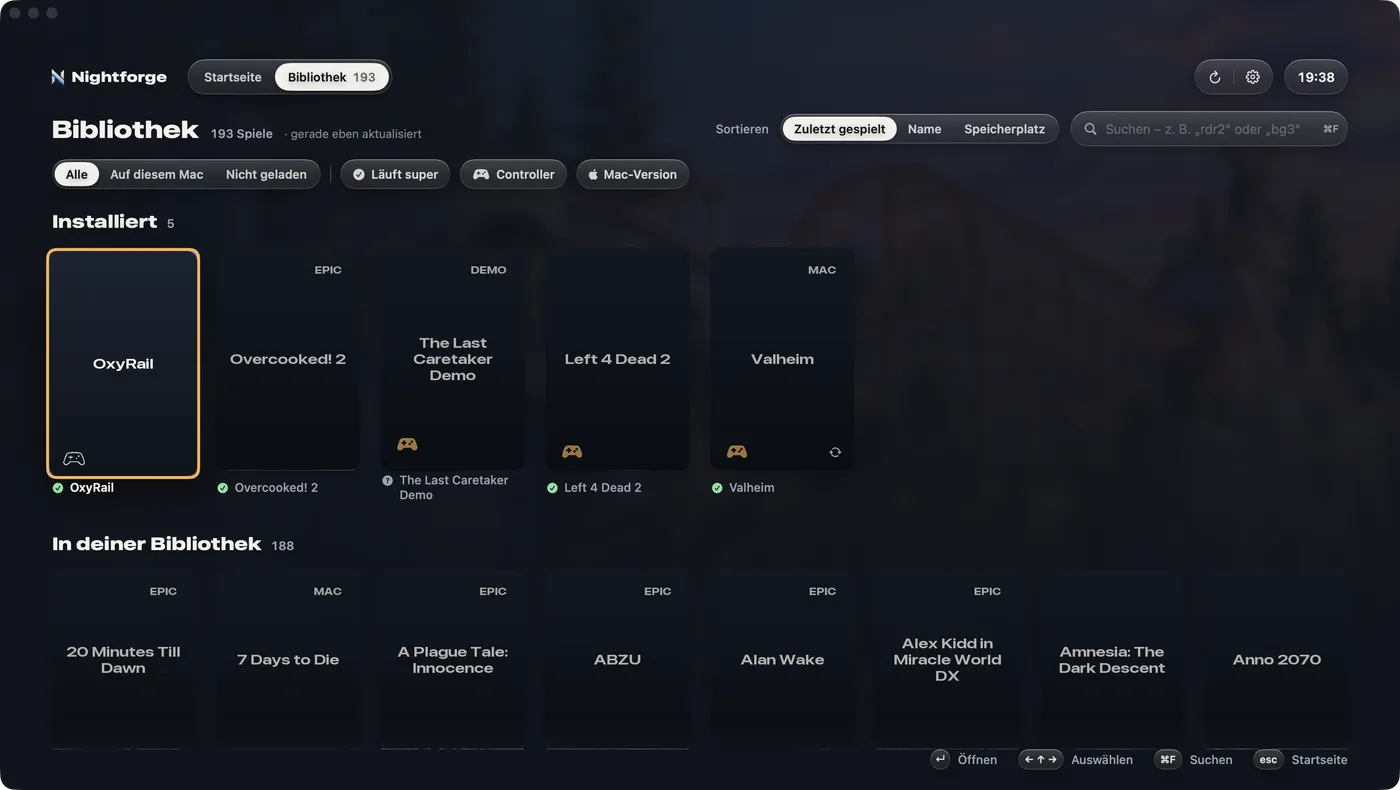
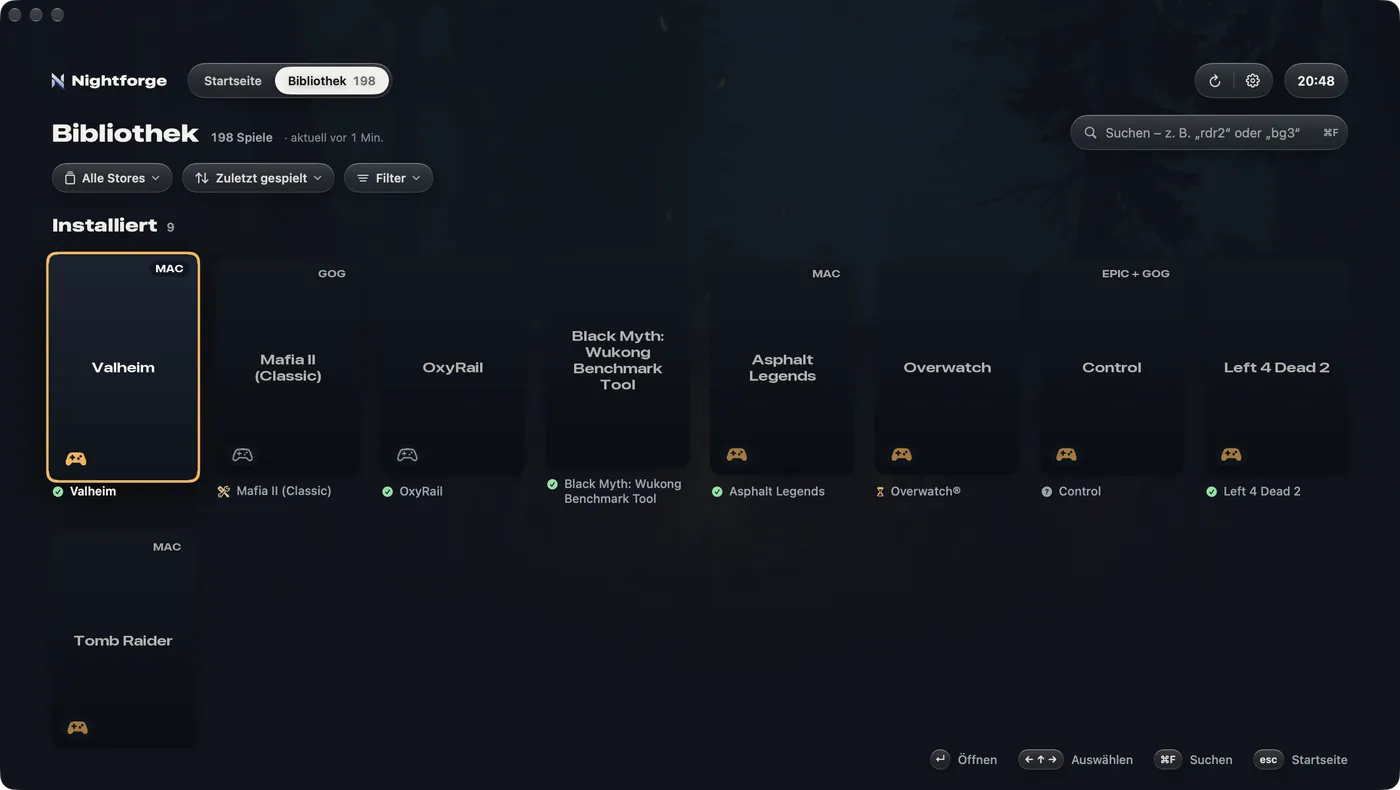
Landing page: pictures from 0.3.0 – the library with GOG, a game's info, the controller settings
Captured from the released 0.3.0 (German UI), game artwork replaced with Nightforge's own plain look:
- Library: the installed games with MAC, GOG and EPIC + GOG tags, controller badges redrawn,
  covers as plain surfaces with the game's name.
- Mafia II's page scrolled to "About the game": the game's pictures as plain tiles, description,
  At a glance and How it plays; the backdrop is the plain gradient, the small logo its name.
- Settings › Controller beside the controller menu panel: the L3 + R3 combination and every button.

The English page shows the German captures of the two new pictures until English ones exist
(one <img> without lang then); its library stays the earlier English capture.

diff --git a/site/index.html b/site/index.html
@@ -206,7 +206,7 @@
     <h2 class="h2"><span lang="de">Deine ganze Bibliothek. <span class="dim">Mac-Versionen zuerst.</span></span><span lang="en">Your whole library. <span class="dim">Mac versions first.</span></span></h2>
   </div>
   <figure class="wrap shot-xl reveal">
-    <img lang="de" class="screen" src="img/shots/library-de-800.webp" srcset="img/shots/library-de-800.webp 800w, img/shots/library-de-1400.webp 1400w" sizes="(min-width: 1180px) 1080px, calc(100vw - 40px)" width="3024" height="1706" loading="lazy" decoding="async" alt="Die Bibliothek mit Filtern und Covern, an denen MAC- und EPIC-Schilder hängen">
+    <img lang="de" class="screen" src="img/shots/library-de-800.webp" srcset="img/shots/library-de-800.webp 800w, img/shots/library-de-1400.webp 1400w" sizes="(min-width: 1180px) 1080px, calc(100vw - 40px)" width="3024" height="1706" loading="lazy" decoding="async" alt="Die Bibliothek mit den installierten Spielen: Schilder für MAC, GOG und EPIC + GOG, Controller-Abzeichen und unter jedem Cover, wie das Spiel läuft">
     <img lang="en" class="screen" src="img/shots/library-en-800.webp" srcset="img/shots/library-en-800.webp 800w, img/shots/library-en-1400.webp 1400w" sizes="(min-width: 1180px) 1080px, calc(100vw - 40px)" width="3024" height="1706" loading="lazy" decoding="async" alt="The library with filters and covers carrying MAC and EPIC tags">
   </figure>
   <div class="wrap cols reveal">
@@ -293,12 +293,16 @@
         <p class="panel-kicker"><span lang="de">Gibt es so nur in Nightforge</span><span lang="en">Only in Nightforge, this way</span></p>
         <h3 class="feature-title"><span lang="de">Nightforges eigenes Controller-Menü.</span><span lang="en">Nightforge’s own controller menu.</span></h3>
         <p class="feature-text"><span lang="de">Beide Sticks drücken (L3&nbsp;+&nbsp;R3) und zwei Sekunden halten – schon kommt mitten im Spiel ein ruhiges Menü nach vorn. Auf dem Sofa bleibt man so nie hängen: Ein eingefrorenes Spiel beendest du mit dem Controller, ohne aufzustehen – und bist gleich wieder in deiner Bibliothek.</span><span lang="en">Press both sticks (L3&nbsp;+&nbsp;R3) and hold them for two seconds – and a calm menu comes up in the middle of a game. So on the couch you never get stuck: you quit a frozen game with the controller, without getting up – and you’re straight back in your library.</span></p>
+        <ul class="feature-list">
+          <li><svg class="i" aria-hidden="true"><use href="#i-play"/></svg><span lang="de">Weiterspielen</span><span lang="en">Keep playing</span></li>
+          <li><svg class="i" aria-hidden="true"><use href="#i-x"/></svg><span lang="de">Spiel beenden – auch wenn es hängt</span><span lang="en">Quit the game – even when it hangs</span></li>
+          <li><svg class="i i-mark" aria-hidden="true"><use href="#mark"/></svg><span lang="de">Zu Nightforge</span><span lang="en">Back to Nightforge</span></li>
+        </ul>
       </div>
-      <ul class="feature-list">
-        <li><svg class="i" aria-hidden="true"><use href="#i-play"/></svg><span lang="de">Weiterspielen</span><span lang="en">Keep playing</span></li>
-        <li><svg class="i" aria-hidden="true"><use href="#i-x"/></svg><span lang="de">Spiel beenden – auch wenn es hängt</span><span lang="en">Quit the game – even when it hangs</span></li>
-        <li><svg class="i i-mark" aria-hidden="true"><use href="#mark"/></svg><span lang="de">Zu Nightforge</span><span lang="en">Back to Nightforge</span></li>
-      </ul>
+      <figure class="feature-shot">
+        <img class="screen screen-dialog" src="img/shots/controller-de-700.webp" srcset="img/shots/controller-de-700.webp 700w, img/shots/controller-de-1100.webp 1100w" sizes="(min-width: 1068px) 440px, calc(100vw - 80px)" width="1279" height="1184" loading="lazy" decoding="async" alt="Settings › Controller: button symbols, the combination for the in-game menu and every button with what it does">
+        <figcaption><span lang="de">Einstellungen › Controller: jede Taste, in Klartext.</span><span lang="en">Settings › Controller: every button, in plain words.</span></figcaption>
+      </figure>
     </div>
   </div>
   <!-- Picture spot (0.3.0): the controller menu over a running game. -->
@@ -315,7 +319,9 @@
     <img lang="de" class="screen" src="img/shots/detail-de-800.webp" srcset="img/shots/detail-de-800.webp 800w, img/shots/detail-de-1400.webp 1400w" sizes="(min-width: 1180px) 1080px, calc(100vw - 40px)" width="3024" height="1706" loading="lazy" decoding="async" alt="Die Seite von OxyRail mit dem Satz „Du hast gesagt, es läuft gut.“ und der Karte „Dieses Spiel“">
     <img lang="en" class="screen" src="img/shots/detail-en-800.webp" srcset="img/shots/detail-en-800.webp 800w, img/shots/detail-en-1400.webp 1400w" sizes="(min-width: 1180px) 1080px, calc(100vw - 40px)" width="3024" height="1706" loading="lazy" decoding="async" alt="OxyRail’s page with “You said it runs well” and the “This game” card">
   </figure>
-  <!-- Picture spot (0.3.0): the game page with description, screenshots and game modes, once game-metadata is merged. -->
+  <figure class="wrap shot-xl reveal">
+    <img class="screen" src="img/shots/gameinfo-de-800.webp" srcset="img/shots/gameinfo-de-800.webp 800w, img/shots/gameinfo-de-1400.webp 1400w" sizes="(min-width: 1180px) 1080px, calc(100vw - 40px)" width="3024" height="1706" loading="lazy" decoding="async" alt="Further down Mafia II’s page: About the game with pictures, description, At a glance and How it plays">
+  </figure>
   <div class="wrap cols reveal">
     <div>
       <h3><span lang="de">Alles über das Spiel</span><span lang="en">All about the game</span></h3>

diff --git a/site/style.css b/site/style.css
@@ -298,7 +298,10 @@ b { font-weight: 600; color: var(--text); }
 @media (min-width: 1068px) { .feature-panel { grid-template-columns: 1.15fr 1fr; } }
 .feature-title { margin: 10px 0 14px; font: 600 clamp(26px, 3vw, 38px)/1.1 var(--font-display); letter-spacing: -0.01em; text-wrap: balance; }
 .feature-text { color: var(--text-2); font-size: 17px; line-height: 1.5; }
-.feature-list { display: grid; gap: 12px; }
+.feature-list { display: grid; gap: 12px; margin-top: 28px; }
+.feature-shot { display: flex; flex-direction: column; align-items: center; }
+.feature-shot .screen-dialog { width: 100%; max-width: 440px; }
+.feature-shot figcaption { margin-top: 22px; color: var(--text-3); font-size: 14px; text-align: center; }
 .feature-list li {
   display: flex; align-items: center; gap: 14px;
   padding: 16px 20px; border-radius: 16px;
